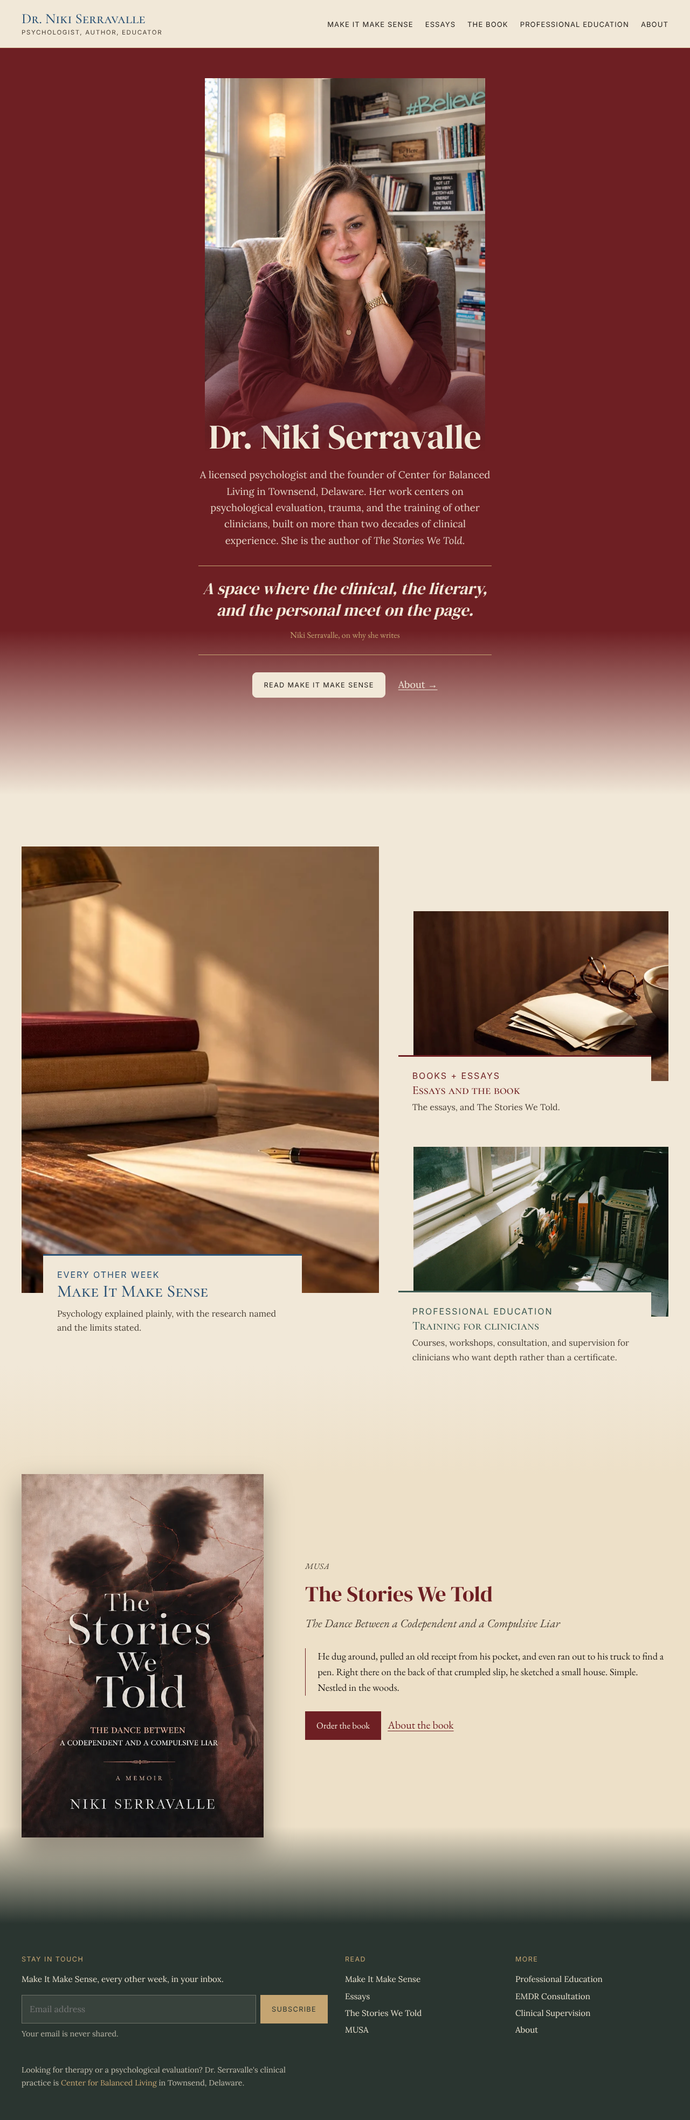
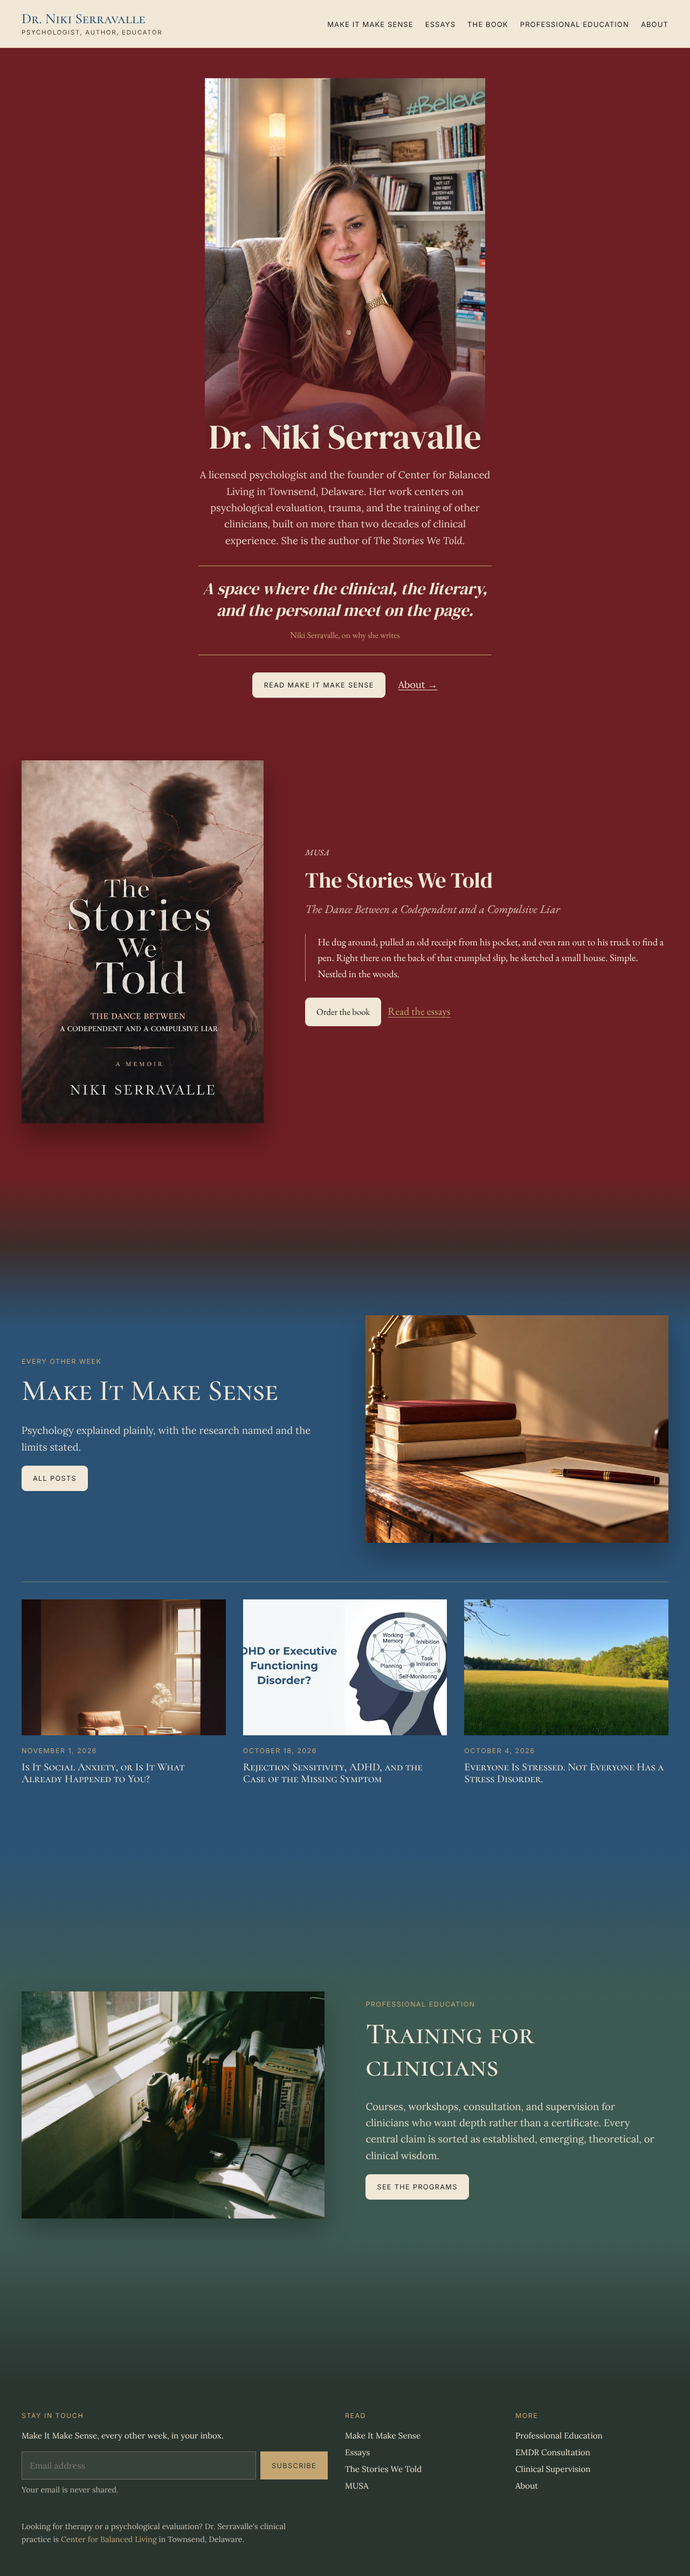
drserravalle theme: brand bands that fade into each other
Home sections each sit on their own brand color: Oxblood (Niki, the book),
Cobalt (Make It Make Sense, with latest posts), Forest (Professional
Education), fading into Deep Ink. Hero portrait stays cropped until retouched.

Claude-Session: https://claude.ai/code/session_01PNTKRciZknXhVWVEiJrrtz

diff --git a/drserravalle/theme/assets/drs.css b/drserravalle/theme/assets/drs.css
@@ -369,3 +369,49 @@ p { margin: 0 0 1.1em; }
 .book-band .book__excerpt { border-left-color: var(--oxblood); }
 .book-band .btn { background: var(--oxblood); border-color: var(--oxblood); color: var(--bone); }
 .book-band a:not(.btn) { color: var(--oxblood); }
+
+/* Brand bands (Niki, 12 Nov): each home section sits on its own brand color and
+   fades into the next. Oxblood (Niki, the book, the essays) to Cobalt (Make It Make
+   Sense) to Forest (Professional Education) to Deep Ink (footer). The Oxblood to
+   Cobalt fade passes through Warm Gray #3D2D29 so the midpoint is not muddy violet. */
+.intro { background: var(--oxblood); padding-bottom: 72px; }
+.blk.book-band { background: var(--oxblood); color: var(--bone); padding-top: 24px; }
+.book-band h2, .book-band .meta { color: var(--bone); }
+.book-band .book__sub { color: rgba(241, 232, 216, .8); }
+.book-band .book__excerpt { border-left-color: var(--ochre); }
+.book-band .btn { background: var(--bone); border-color: var(--bone); color: var(--ink-0); border-radius: 8px; }
+.book-band a:not(.btn) { color: var(--ochre); }
+.book-band .book { padding-bottom: 96px; }
+
+.band { --c: var(--cobalt); --from: var(--c); --mid: var(--c); color: var(--bone); padding: 260px 0 112px;
+  background: linear-gradient(180deg, var(--from) 0, var(--mid) 130px, var(--c) 280px, var(--c) 100%); }
+.band--cobalt { --c: var(--cobalt); }
+.band--forest { --c: var(--forest); }
+.band--oxblood { --c: var(--oxblood); }
+.band-from--oxblood { --from: var(--oxblood); --mid: #3D2D29; }
+.band-from--cobalt { --from: var(--cobalt); --mid: color-mix(in srgb, var(--cobalt) 50%, var(--forest)); }
+.band-from--forest { --from: var(--forest); --mid: color-mix(in srgb, var(--forest) 50%, var(--c)); }
+.band-from--bone { --from: var(--bone); --mid: color-mix(in srgb, var(--bone) 50%, var(--c)); }
+.band-from--none { padding-top: 112px; }
+.band--to-footer { background: linear-gradient(180deg, var(--from) 0, var(--mid) 130px, var(--c) 280px, var(--c) calc(100% - 260px), var(--deep-ink) 100%); padding-bottom: 300px; }
+.band__grid { display: grid; grid-template-columns: 6fr 6fr; gap: clamp(32px, 6vw, 96px); align-items: center; }
+.band__grid--flip .band__img { order: -1; }
+.band h2 { color: var(--bone); font-size: clamp(2.2rem, 4.4vw, 3.4rem); }
+.band .eyebrow { color: var(--ochre); }
+.band__text { font-size: 1.15rem; color: rgba(241, 232, 216, .9); max-width: 34rem; }
+.band .btn { background: var(--bone); border-color: var(--bone); color: var(--ink-0); border-radius: 8px; }
+.band__img { margin: 0; aspect-ratio: 4 / 3; overflow: hidden; box-shadow: 0 24px 48px rgba(0, 0, 0, .28); }
+.band__img img { width: 100%; height: 100%; object-fit: cover; }
+.band__posts { display: grid; grid-template-columns: repeat(3, 1fr); gap: 32px; margin-top: 72px; padding-top: 32px; border-top: 1px solid rgba(197, 165, 114, .5); }
+.band__post { color: var(--bone); text-decoration: none; }
+.band__post-img { aspect-ratio: 3 / 2; overflow: hidden; margin-bottom: 12px; background: rgba(0, 0, 0, .15); }
+.band__post-img img { width: 100%; height: 100%; object-fit: cover; }
+.band__post .meta { color: var(--ochre); }
+.band__post h3 { color: var(--bone); font-size: 1.25rem; margin-top: 6px; }
+.band__post:hover h3 { text-decoration: underline; text-decoration-thickness: 1px; text-underline-offset: .2em; }
+.sys-bridge .band--forest h2, .sys-bridge .band--forest h3 { font-family: 'Cormorant SC', Georgia, serif; }
+@media (max-width: 860px) { .band__grid { grid-template-columns: 1fr; } .band__posts { grid-template-columns: 1fr; } .band { padding-top: 200px; } }
+.site-foot { margin-top: 0; }
+/* Temporary: while the portrait still shows the shelf signs, an inline crop is set.
+   The card frame needs a fixed ratio and clipping only when that crop is present. */
+.intro__img:has(img[style]) { aspect-ratio: 3 / 4; overflow: hidden; }
